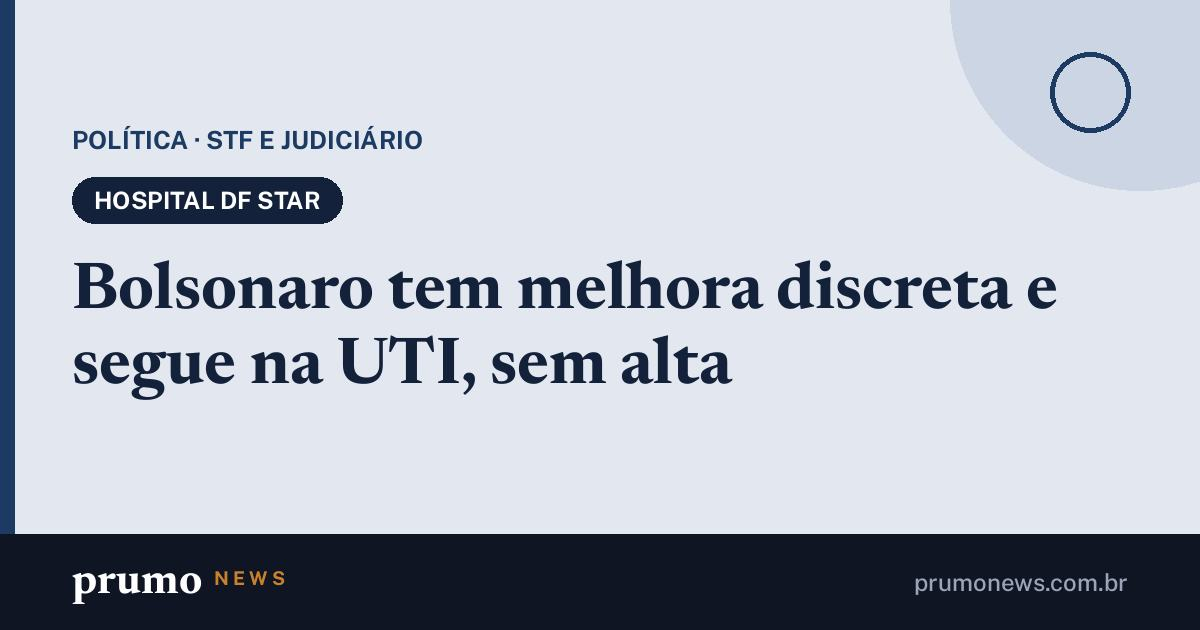
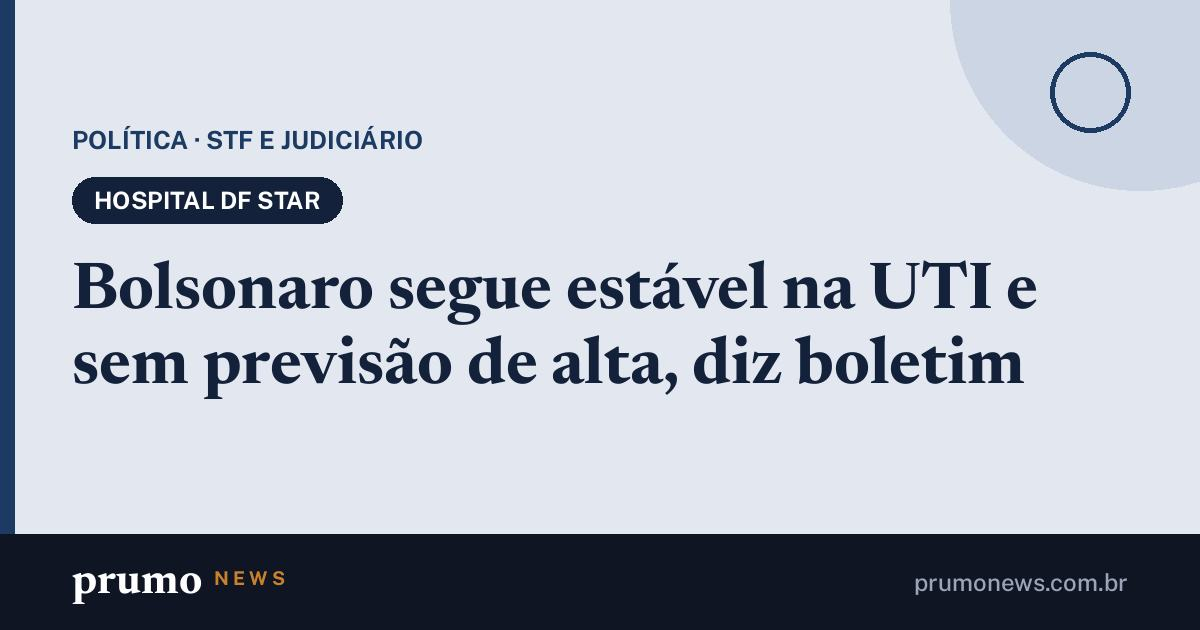
Páginas de compartilhamento 25/11 14h51

Changed region(s): [[0.0925, 0.3921, 0.8942, 0.6333]]

diff --git a/m/bolsonaro-hospital-dores-abdominais.html b/m/bolsonaro-hospital-dores-abdominais.html
@@ -3,16 +3,16 @@
 <head>
 <meta charset="utf-8">
 <meta name="viewport" content="width=device-width, initial-scale=1">
-<title>Bolsonaro tem melhora discreta e segue na UTI, sem alta · Prumo News</title>
-<meta name="description" content="Internado desde sexta (20), o ex-presidente tem melhora discreta no boletim de terça (24), segue na UTI e não tem previsão de alta.">
-<link rel="canonical" href="https://prumonews.com.br/m/bolsonaro-tem-melhora-discreta-e-segue-na-uti-sem-alta.html">
+<title>Bolsonaro segue estável na UTI e sem previsão de alta, diz boletim · Prumo News</title>
+<meta name="description" content="O boletim médico de quarta (25) mantém o ex-presidente na UTI, em quadro estável e sem previsão de alta; ele está internado desde sexta (20).">
+<link rel="canonical" href="https://prumonews.com.br/m/bolsonaro-segue-estavel-na-uti-e-sem-previsao-de-alta-diz-boletim.html">
 <meta property="og:type" content="article">
 <meta property="og:site_name" content="Prumo News">
 <meta property="og:locale" content="pt_BR">
-<meta property="og:title" content="Bolsonaro tem melhora discreta e segue na UTI, sem alta">
-<meta property="og:description" content="Internado desde sexta (20), o ex-presidente tem melhora discreta no boletim de terça (24), segue na UTI e não tem previsão de alta.">
-<meta property="og:url" content="https://prumonews.com.br/m/bolsonaro-tem-melhora-discreta-e-segue-na-uti-sem-alta.html">
-<meta property="og:image" content="https://prumonews.com.br/m/og/bolsonaro-hospital-dores-abdominais.jpg?v=402d5f25d1">
+<meta property="og:title" content="Bolsonaro segue estável na UTI e sem previsão de alta, diz boletim">
+<meta property="og:description" content="O boletim médico de quarta (25) mantém o ex-presidente na UTI, em quadro estável e sem previsão de alta; ele está internado desde sexta (20).">
+<meta property="og:url" content="https://prumonews.com.br/m/bolsonaro-segue-estavel-na-uti-e-sem-previsao-de-alta-diz-boletim.html">
+<meta property="og:image" content="https://prumonews.com.br/m/og/bolsonaro-hospital-dores-abdominais.jpg?v=095e9be767">
 <meta property="og:image:width" content="1200">
 <meta property="og:image:height" content="630">
 <meta name="twitter:card" content="summary_large_image">
@@ -20,5 +20,5 @@
 <script>location.replace("/#m=bolsonaro-hospital-dores-abdominais")</script>
 <style>body{margin:0;font:16px/1.5 system-ui,sans-serif;background:#0f1522;color:#e8ecf2;display:grid;place-items:center;min-height:100vh;padding:24px;box-sizing:border-box;text-align:center}a{color:#e6b673}</style>
 </head>
-<body><p><a href="/#m=bolsonaro-hospital-dores-abdominais">Bolsonaro tem melhora discreta e segue na UTI, sem alta</a><br>Abrindo no Prumo News…</p></body>
+<body><p><a href="/#m=bolsonaro-hospital-dores-abdominais">Bolsonaro segue estável na UTI e sem previsão de alta, diz boletim</a><br>Abrindo no Prumo News…</p></body>
 </html>

diff --git a/m/brasileirao-37-rodada-z4.html b/m/brasileirao-37-rodada-z4.html
@@ -3,20 +3,20 @@
 <head>
 <meta charset="utf-8">
 <meta name="viewport" content="width=device-width, initial-scale=1">
-<title>Corinthians visita o Atlético-MG na quarta (25) para sair do Z-4 · Prumo News</title>
+<title>Corinthians visita o Atlético-MG às 20h de quarta (25) para sair do Z-4 · Prumo News</title>
 <meta name="description" content="O jogo é às 20h, na Arena MRV; o Corinthians tem 40 pontos e o Palmeiras, que venceu a Chapecoense, chegou a 77.">
-<link rel="canonical" href="https://prumonews.com.br/m/corinthians-visita-o-atletico-mg-na-quarta-25-para-sair-do-z-4.html">
+<link rel="canonical" href="https://prumonews.com.br/m/corinthians-visita-o-atletico-mg-as-20h-de-quarta-25-para-sair-do-z-4.html">
 <meta property="og:type" content="article">
 <meta property="og:site_name" content="Prumo News">
 <meta property="og:locale" content="pt_BR">
-<meta property="og:title" content="Corinthians visita o Atlético-MG na quarta (25) para sair do Z-4">
+<meta property="og:title" content="Corinthians visita o Atlético-MG às 20h de quarta (25) para sair do Z-4">
 <meta property="og:description" content="O jogo é às 20h, na Arena MRV; o Corinthians tem 40 pontos e o Palmeiras, que venceu a Chapecoense, chegou a 77.">
-<meta property="og:url" content="https://prumonews.com.br/m/corinthians-visita-o-atletico-mg-na-quarta-25-para-sair-do-z-4.html">
+<meta property="og:url" content="https://prumonews.com.br/m/corinthians-visita-o-atletico-mg-as-20h-de-quarta-25-para-sair-do-z-4.html">
 <meta property="og:image" content="https://upload.wikimedia.org/wikipedia/commons/thumb/b/b5/ARENA_MRV.jpg/960px-ARENA_MRV.jpg">
 <meta name="twitter:card" content="summary_large_image">
 <meta name="theme-color" content="#0f1522">
 <script>location.replace("/#m=brasileirao-37-rodada-z4")</script>
 <style>body{margin:0;font:16px/1.5 system-ui,sans-serif;background:#0f1522;color:#e8ecf2;display:grid;place-items:center;min-height:100vh;padding:24px;box-sizing:border-box;text-align:center}a{color:#e6b673}</style>
 </head>
-<body><p><a href="/#m=brasileirao-37-rodada-z4">Corinthians visita o Atlético-MG na quarta (25) para sair do Z-4</a><br>Abrindo no Prumo News…</p></body>
+<body><p><a href="/#m=brasileirao-37-rodada-z4">Corinthians visita o Atlético-MG às 20h de quarta (25) para sair do Z-4</a><br>Abrindo no Prumo News…</p></body>
 </html>

diff --git a/m/bolsonaro-segue-estavel-na-uti-e-sem-previsao-de-alta-diz-boletim.html b/m/bolsonaro-segue-estavel-na-uti-e-sem-previsao-de-alta-diz-boletim.html
@@ -1,0 +1,24 @@
+<!doctype html>
+<html lang="pt-BR">
+<head>
+<meta charset="utf-8">
+<meta name="viewport" content="width=device-width, initial-scale=1">
+<title>Bolsonaro segue estável na UTI e sem previsão de alta, diz boletim · Prumo News</title>
+<meta name="description" content="O boletim médico de quarta (25) mantém o ex-presidente na UTI, em quadro estável e sem previsão de alta; ele está internado desde sexta (20).">
+<link rel="canonical" href="https://prumonews.com.br/m/bolsonaro-segue-estavel-na-uti-e-sem-previsao-de-alta-diz-boletim.html">
+<meta property="og:type" content="article">
+<meta property="og:site_name" content="Prumo News">
+<meta property="og:locale" content="pt_BR">
+<meta property="og:title" content="Bolsonaro segue estável na UTI e sem previsão de alta, diz boletim">
+<meta property="og:description" content="O boletim médico de quarta (25) mantém o ex-presidente na UTI, em quadro estável e sem previsão de alta; ele está internado desde sexta (20).">
+<meta property="og:url" content="https://prumonews.com.br/m/bolsonaro-segue-estavel-na-uti-e-sem-previsao-de-alta-diz-boletim.html">
+<meta property="og:image" content="https://prumonews.com.br/m/og/bolsonaro-hospital-dores-abdominais.jpg?v=095e9be767">
+<meta property="og:image:width" content="1200">
+<meta property="og:image:height" content="630">
+<meta name="twitter:card" content="summary_large_image">
+<meta name="theme-color" content="#0f1522">
+<script>location.replace("/#m=bolsonaro-hospital-dores-abdominais")</script>
+<style>body{margin:0;font:16px/1.5 system-ui,sans-serif;background:#0f1522;color:#e8ecf2;display:grid;place-items:center;min-height:100vh;padding:24px;box-sizing:border-box;text-align:center}a{color:#e6b673}</style>
+</head>
+<body><p><a href="/#m=bolsonaro-hospital-dores-abdominais">Bolsonaro segue estável na UTI e sem previsão de alta, diz boletim</a><br>Abrindo no Prumo News…</p></body>
+</html>

diff --git a/m/lula-ex-ministros-justica-seguranca-publica.html b/m/lula-ex-ministros-justica-seguranca-publica.html
@@ -1,0 +1,22 @@
+<!doctype html>
+<html lang="pt-BR">
+<head>
+<meta charset="utf-8">
+<meta name="viewport" content="width=device-width, initial-scale=1">
+<title>Lula ouve ex-ministros da Justiça sobre a nova pasta da Segurança Pública · Prumo News</title>
+<meta name="description" content="Tarso Genro, Flávio Dino e Ricardo Lewandowski levaram sugestões ao presidente para a nova pasta.">
+<link rel="canonical" href="https://prumonews.com.br/m/lula-ouve-ex-ministros-da-justica-sobre-a-nova-pasta-da-seguranca.html">
+<meta property="og:type" content="article">
+<meta property="og:site_name" content="Prumo News">
+<meta property="og:locale" content="pt_BR">
+<meta property="og:title" content="Lula ouve ex-ministros da Justiça sobre a nova pasta da Segurança Pública">
+<meta property="og:description" content="Tarso Genro, Flávio Dino e Ricardo Lewandowski levaram sugestões ao presidente para a nova pasta.">
+<meta property="og:url" content="https://prumonews.com.br/m/lula-ouve-ex-ministros-da-justica-sobre-a-nova-pasta-da-seguranca.html">
+<meta property="og:image" content="https://upload.wikimedia.org/wikipedia/commons/thumb/1/18/Viatura_de_Unidade_Paran%C3%A1_Seguro.jpg/960px-Viatura_de_Unidade_Paran%C3%A1_Seguro.jpg">
+<meta name="twitter:card" content="summary_large_image">
+<meta name="theme-color" content="#0f1522">
+<script>location.replace("/#m=lula-ex-ministros-justica-seguranca-publica")</script>
+<style>body{margin:0;font:16px/1.5 system-ui,sans-serif;background:#0f1522;color:#e8ecf2;display:grid;place-items:center;min-height:100vh;padding:24px;box-sizing:border-box;text-align:center}a{color:#e6b673}</style>
+</head>
+<body><p><a href="/#m=lula-ex-ministros-justica-seguranca-publica">Lula ouve ex-ministros da Justiça sobre a nova pasta da Segurança Pública</a><br>Abrindo no Prumo News…</p></body>
+</html>

diff --git a/m/lula-ouve-ex-ministros-da-justica-sobre-a-nova-pasta-da-seguranca.html b/m/lula-ouve-ex-ministros-da-justica-sobre-a-nova-pasta-da-seguranca.html
@@ -1,0 +1,22 @@
+<!doctype html>
+<html lang="pt-BR">
+<head>
+<meta charset="utf-8">
+<meta name="viewport" content="width=device-width, initial-scale=1">
+<title>Lula ouve ex-ministros da Justiça sobre a nova pasta da Segurança Pública · Prumo News</title>
+<meta name="description" content="Tarso Genro, Flávio Dino e Ricardo Lewandowski levaram sugestões ao presidente para a nova pasta.">
+<link rel="canonical" href="https://prumonews.com.br/m/lula-ouve-ex-ministros-da-justica-sobre-a-nova-pasta-da-seguranca.html">
+<meta property="og:type" content="article">
+<meta property="og:site_name" content="Prumo News">
+<meta property="og:locale" content="pt_BR">
+<meta property="og:title" content="Lula ouve ex-ministros da Justiça sobre a nova pasta da Segurança Pública">
+<meta property="og:description" content="Tarso Genro, Flávio Dino e Ricardo Lewandowski levaram sugestões ao presidente para a nova pasta.">
+<meta property="og:url" content="https://prumonews.com.br/m/lula-ouve-ex-ministros-da-justica-sobre-a-nova-pasta-da-seguranca.html">
+<meta property="og:image" content="https://upload.wikimedia.org/wikipedia/commons/thumb/1/18/Viatura_de_Unidade_Paran%C3%A1_Seguro.jpg/960px-Viatura_de_Unidade_Paran%C3%A1_Seguro.jpg">
+<meta name="twitter:card" content="summary_large_image">
+<meta name="theme-color" content="#0f1522">
+<script>location.replace("/#m=lula-ex-ministros-justica-seguranca-publica")</script>
+<style>body{margin:0;font:16px/1.5 system-ui,sans-serif;background:#0f1522;color:#e8ecf2;display:grid;place-items:center;min-height:100vh;padding:24px;box-sizing:border-box;text-align:center}a{color:#e6b673}</style>
+</head>
+<body><p><a href="/#m=lula-ex-ministros-justica-seguranca-publica">Lula ouve ex-ministros da Justiça sobre a nova pasta da Segurança Pública</a><br>Abrindo no Prumo News…</p></body>
+</html>

diff --git a/m/moraes-destruicao-passaportes-filipe-martins.html b/m/moraes-destruicao-passaportes-filipe-martins.html
@@ -1,0 +1,22 @@
+<!doctype html>
+<html lang="pt-BR">
+<head>
+<meta charset="utf-8">
+<meta name="viewport" content="width=device-width, initial-scale=1">
+<title>Moraes manda destruir passaportes do ex-assessor Filipe Martins · Prumo News</title>
+<meta name="description" content="Os passaportes foram apreendidos na investigação do golpe; Martins foi condenado a 21 anos de prisão.">
+<link rel="canonical" href="https://prumonews.com.br/m/moraes-manda-destruir-passaportes-do-ex-assessor-filipe-martins.html">
+<meta property="og:type" content="article">
+<meta property="og:site_name" content="Prumo News">
+<meta property="og:locale" content="pt_BR">
+<meta property="og:title" content="Moraes manda destruir passaportes do ex-assessor Filipe Martins">
+<meta property="og:description" content="Os passaportes foram apreendidos na investigação do golpe; Martins foi condenado a 21 anos de prisão.">
+<meta property="og:url" content="https://prumonews.com.br/m/moraes-manda-destruir-passaportes-do-ex-assessor-filipe-martins.html">
+<meta property="og:image" content="https://upload.wikimedia.org/wikipedia/commons/thumb/5/5c/Alexandre_de_Moraes_na_sabatina_para_o_STF_6.jpg/960px-Alexandre_de_Moraes_na_sabatina_para_o_STF_6.jpg">
+<meta name="twitter:card" content="summary_large_image">
+<meta name="theme-color" content="#0f1522">
+<script>location.replace("/#m=moraes-destruicao-passaportes-filipe-martins")</script>
+<style>body{margin:0;font:16px/1.5 system-ui,sans-serif;background:#0f1522;color:#e8ecf2;display:grid;place-items:center;min-height:100vh;padding:24px;box-sizing:border-box;text-align:center}a{color:#e6b673}</style>
+</head>
+<body><p><a href="/#m=moraes-destruicao-passaportes-filipe-martins">Moraes manda destruir passaportes do ex-assessor Filipe Martins</a><br>Abrindo no Prumo News…</p></body>
+</html>

diff --git a/m/moraes-manda-destruir-passaportes-do-ex-assessor-filipe-martins.html b/m/moraes-manda-destruir-passaportes-do-ex-assessor-filipe-martins.html
@@ -1,0 +1,22 @@
+<!doctype html>
+<html lang="pt-BR">
+<head>
+<meta charset="utf-8">
+<meta name="viewport" content="width=device-width, initial-scale=1">
+<title>Moraes manda destruir passaportes do ex-assessor Filipe Martins · Prumo News</title>
+<meta name="description" content="Os passaportes foram apreendidos na investigação do golpe; Martins foi condenado a 21 anos de prisão.">
+<link rel="canonical" href="https://prumonews.com.br/m/moraes-manda-destruir-passaportes-do-ex-assessor-filipe-martins.html">
+<meta property="og:type" content="article">
+<meta property="og:site_name" content="Prumo News">
+<meta property="og:locale" content="pt_BR">
+<meta property="og:title" content="Moraes manda destruir passaportes do ex-assessor Filipe Martins">
+<meta property="og:description" content="Os passaportes foram apreendidos na investigação do golpe; Martins foi condenado a 21 anos de prisão.">
+<meta property="og:url" content="https://prumonews.com.br/m/moraes-manda-destruir-passaportes-do-ex-assessor-filipe-martins.html">
+<meta property="og:image" content="https://upload.wikimedia.org/wikipedia/commons/thumb/5/5c/Alexandre_de_Moraes_na_sabatina_para_o_STF_6.jpg/960px-Alexandre_de_Moraes_na_sabatina_para_o_STF_6.jpg">
+<meta name="twitter:card" content="summary_large_image">
+<meta name="theme-color" content="#0f1522">
+<script>location.replace("/#m=moraes-destruicao-passaportes-filipe-martins")</script>
+<style>body{margin:0;font:16px/1.5 system-ui,sans-serif;background:#0f1522;color:#e8ecf2;display:grid;place-items:center;min-height:100vh;padding:24px;box-sizing:border-box;text-align:center}a{color:#e6b673}</style>
+</head>
+<body><p><a href="/#m=moraes-destruicao-passaportes-filipe-martins">Moraes manda destruir passaportes do ex-assessor Filipe Martins</a><br>Abrindo no Prumo News…</p></body>
+</html>

diff --git a/m/corinthians-visita-o-atletico-mg-as-20h-de-quarta-25-para-sair-do-z-4.html b/m/corinthians-visita-o-atletico-mg-as-20h-de-quarta-25-para-sair-do-z-4.html
@@ -1,0 +1,22 @@
+<!doctype html>
+<html lang="pt-BR">
+<head>
+<meta charset="utf-8">
+<meta name="viewport" content="width=device-width, initial-scale=1">
+<title>Corinthians visita o Atlético-MG às 20h de quarta (25) para sair do Z-4 · Prumo News</title>
+<meta name="description" content="O jogo é às 20h, na Arena MRV; o Corinthians tem 40 pontos e o Palmeiras, que venceu a Chapecoense, chegou a 77.">
+<link rel="canonical" href="https://prumonews.com.br/m/corinthians-visita-o-atletico-mg-as-20h-de-quarta-25-para-sair-do-z-4.html">
+<meta property="og:type" content="article">
+<meta property="og:site_name" content="Prumo News">
+<meta property="og:locale" content="pt_BR">
+<meta property="og:title" content="Corinthians visita o Atlético-MG às 20h de quarta (25) para sair do Z-4">
+<meta property="og:description" content="O jogo é às 20h, na Arena MRV; o Corinthians tem 40 pontos e o Palmeiras, que venceu a Chapecoense, chegou a 77.">
+<meta property="og:url" content="https://prumonews.com.br/m/corinthians-visita-o-atletico-mg-as-20h-de-quarta-25-para-sair-do-z-4.html">
+<meta property="og:image" content="https://upload.wikimedia.org/wikipedia/commons/thumb/b/b5/ARENA_MRV.jpg/960px-ARENA_MRV.jpg">
+<meta name="twitter:card" content="summary_large_image">
+<meta name="theme-color" content="#0f1522">
+<script>location.replace("/#m=brasileirao-37-rodada-z4")</script>
+<style>body{margin:0;font:16px/1.5 system-ui,sans-serif;background:#0f1522;color:#e8ecf2;display:grid;place-items:center;min-height:100vh;padding:24px;box-sizing:border-box;text-align:center}a{color:#e6b673}</style>
+</head>
+<body><p><a href="/#m=brasileirao-37-rodada-z4">Corinthians visita o Atlético-MG às 20h de quarta (25) para sair do Z-4</a><br>Abrindo no Prumo News…</p></body>
+</html>
